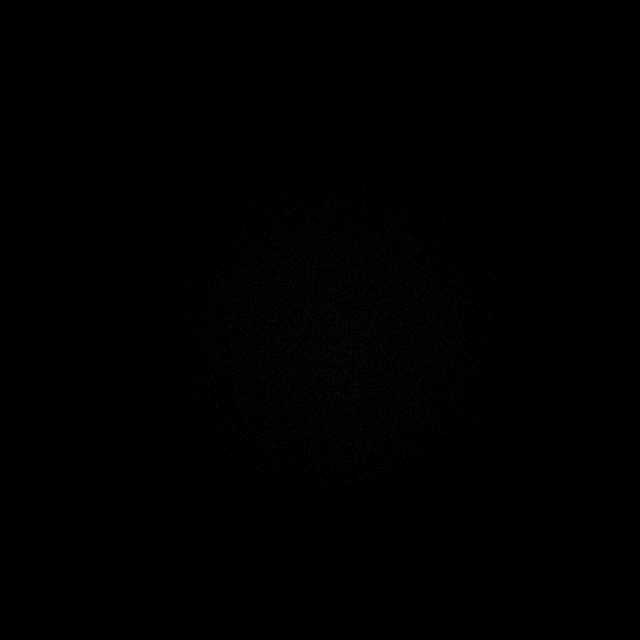
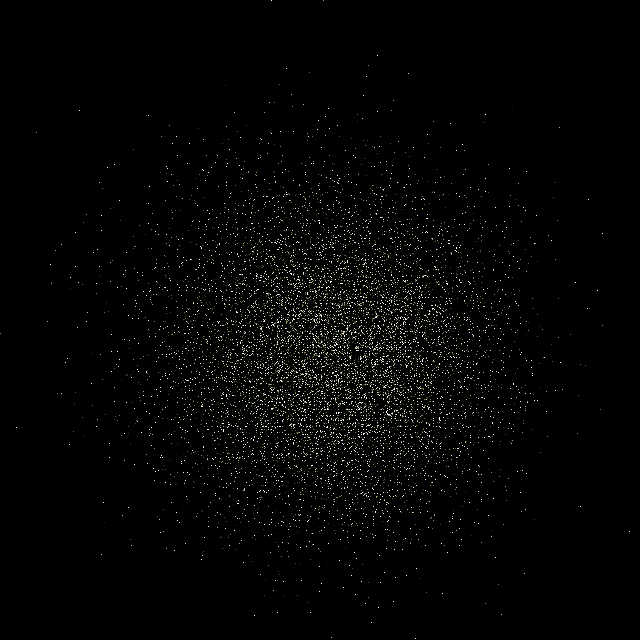
0085 - /Users/whittemore/.nvm/versions/node/v4.2.2/bin/node /index.js

diff --git a/sketches/0085/index.js b/sketches/0085/index.js
@@ -19,7 +19,7 @@ co(function*(){
 
 	var theGraph = ngraph();
 
-	var BLOCK_SIZE = 5;
+	var BLOCK_SIZE = 16;
 
 	console.log('adding images to graph');
 	var count = 0;
@@ -28,16 +28,12 @@ co(function*(){
 		var imgPath = getPath(imgId);
 		var rawImg = yield getBasePixels(imgPath);
 
-		for (var x = 0; x<640; x+=10) {
-			for (var y = 0; y<640; y+=10) {
+		for (var x = 0; x<640; x+=BLOCK_SIZE) {
+			for (var y = 0; y<640; y+=BLOCK_SIZE) {
 				var red = rawImg.get(x, y, 0);
 				var green = rawImg.get(x, y, 1);
 				var blue = rawImg.get(x, y, 2);
-				var color = colorTools.encode(
-					Math.floor(red / (BLOCK_SIZE*BLOCK_SIZE)),
-					Math.floor(green / (BLOCK_SIZE*BLOCK_SIZE)),
-					Math.floor(blue / (BLOCK_SIZE*BLOCK_SIZE))
-				);
+				var color = colorTools.encode(red, green, blue)
 
 				var id = setOfColors.length
 				setOfColors.push(color);
@@ -48,8 +44,8 @@ co(function*(){
 
 	console.log('connecting nodes', setOfColors.length);
 	var connections = [500, 800];
-	var size = 5;
-	for (var i=1; i<size; i++) {
+	var size = 3;
+	for (var i=1; i<size-1; i++) {
 		connections.push(connections[i-1] + connections[i]);
 	}
 	console.log(connections);
